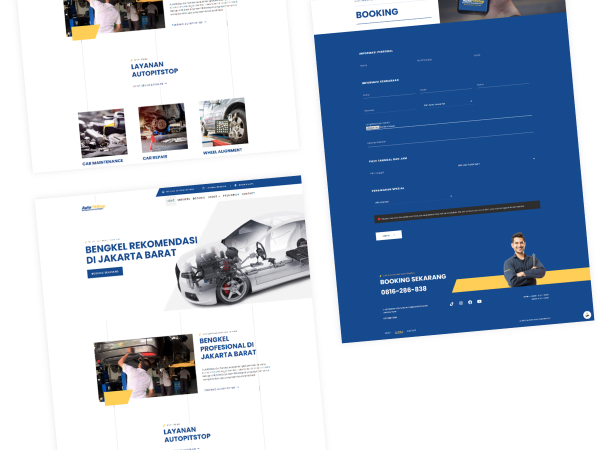
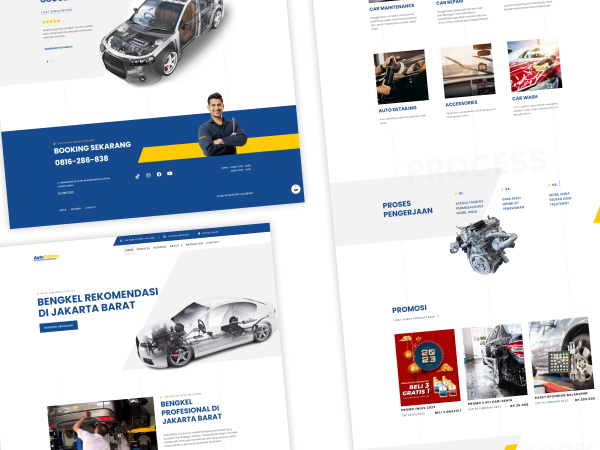
Update project, fix grid repeat,

diff --git a/_layouts/Post.html b/_layouts/Post.html
@@ -104,16 +104,16 @@
                 <h5 class="meta-title"><a href="/">← Home</a></h5>
                 <div class="jumbo">{{page.title}}</div>
                     {%- include Content.html -%}
-                    {% for post in site.posts %}
                     <div class="project-wrapper">
-                        <div class="project-feed">
-                            <a href="{{ site.baseurl }}{{post.url}}">
-                                <img src="{{ post.thumbnail }}" width="600" height="450">
-                                <h6>{{ post.title }}</h6>
-                            </a>
-                        </div>
+                        {% for post in site.posts %}
+                            <div class="project-feed">
+                                <a href="{{ site.baseurl }}{{post.url}}">
+                                    <img src="{{ post.thumbnail }}" width="600" height="450">
+                                    <h6>{{ post.title }}</h6>
+                                </a>
+                            </div>
+                        {%- endfor -%}
                     </div>
-                    {%- endfor -%}
             </div> 
 
             <ul>

diff --git a/_includes/Homepage.html b/_includes/Homepage.html
@@ -9,16 +9,16 @@
 </div>
 <div class="home-wrapper">
     <div class="home-image">
-        <a href="/autopitstop-car-service"><img src="../assets/img/portofolio/autopts1.jpg"></a>
+        <a href="/autopitstop-car-service"><img src="../assets/img/portofolio/autopitstop1.jpg"></a>
         <div class="home-image-meta">
             <div class="home-image-meta-text"> Autopitstop Car Service</div>
-            <div class="home-image-meta-text"> Digital Marketing • 2022</div>
+            <div class="home-image-meta-text"> Creative Content • 2022</div>
         </div>
     </div>
     <div class="home-image">
-        <a href="#"><img src="../assets/img/portofolio/Frame 29.jpg"></a>
+        <a href="/24hourproject-2017"><img src="../assets/img/portofolio/24hourproject1.jpg"></a>
         <div class="home-image-meta">
-            <div class="home-image-meta-text">2017 24hourproject</div>
+            <div class="home-image-meta-text">24 Hour Project 2017</div>
             <div class="home-image-meta-text">Photography • 2017</div>
         </div>
     </div>

diff --git a/assets/css/style.css b/assets/css/style.css
@@ -347,7 +347,7 @@ ul ul {
     column-count: 3 !important;
     display: grid;
     grid-template-columns: repeat(3, 1fr);
-    grid-gap: 10px;
+    grid-gap: 20px;
 }
 
 /* List Feed */

diff --git a/_posts/2020-03-01-autopitstop-car-service.md b/_posts/2020-03-01-autopitstop-car-service.md
@@ -1,13 +1,13 @@
 ---
 title: Autopitstop Car Service
-image: /assets/img/portofolio/autopts1.jpg
+image: /assets/img/portofolio/thumb-autopitstop.jpg
 thumbnail: /assets/img/portofolio/thumb-autopitstop.jpg
 description: Project Digital Marketing bengkel mobil di Jakarta Barat
 ---
 
 <div class="grid-32">
     <div class=".grid-1">
-        <p>Project Autopitstop adalah project digital marketing yang saya kerjakan untuk sebuah bengkel mobil di Jakarta Barat. Saya mengerjakan mulai dari pembuatan website, pembuatan video konten, dan optimasi digital, seperti SEO, Google Business, dan Media Sosial Autopitstop.</p>
+        <p>Project Autopitstop adalah project creative yang saya kerjakan untuk sebuah bengkel mobil di Jakarta Barat. Saya mengerjakan mulai dari pembuatan website, pembuatan video konten, dan optimasi digital, seperti SEO, Google Business, dan Media Sosial Autopitstop.</p>
         <h3>Website</h3>
         <p>Websitenya sendiri saya develop menggunakan wordpress dan plugin elementor sebagai page buildernya. Hostingnya saya serahkan ke hostingan lokal saja.</p>
         <p>Karena pembuatan website ini based on template yang sudah ada, jadi saya membuatnya tidak perlu lama. Total pengerjaan mulai dari pembelian domain, setup hosting, dan web develnya sekitar dua mingguan.</p>
@@ -17,14 +17,18 @@ description: Project Digital Marketing bengkel mobil di Jakarta Barat
     </div>
     <div class=".grid-1">
         <strong>Category:</strong><br>
-        Web Development, Digital Marketing<br><br>
+        Web Development, Creative Content, Video Production<br><br>
         <strong>Client:</strong><br>
         Bengkel Mobil Autopitstop Car Service<br><br>
         <strong>Year:</strong><br>
         2022 - 2023<br><br>
-        <strong>Link:</strong><br>
+        <strong>Links:</strong><br>
         <a href="https://autopitstop.co.id/">autopitstop.co.id</a><br>
     </div>
 </div>
 
-<img src="/assets/img/portofolio/autopts1.jpg" />
+<img src="/assets/img/portofolio/autopitstop1.jpg" />
+
+<img src="/assets/img/portofolio/autopitstop2.jpg" />
+
+<img src="/assets/img/portofolio/autopitstop3.jpg" />

diff --git a/_posts/2017-04-10-24hourproject-2017.md b/_posts/2017-04-10-24hourproject-2017.md
@@ -1,0 +1,28 @@
+---
+title: 24 Hour Project 2017
+image: /assets/img/portofolio/thumb-24jhourproject1.jpg
+thumbnail: /assets/img/portofolio/thumb-24jhourproject1.jpg
+description: Streetphotography Project di tahun 2017
+---
+
+<div class="grid-32">
+    <div class=".grid-1">
+            <p>Salah satu project fotografi yang saya kerjakan pada tahun 2017, tepatnya saat campaign 24 Hour Project.  Sayangnya saat itu saya ga ikutan motret selama 24 jam, cuman setengah hari karena anak baru setahun lahir.</p>
+            <h3>Tentang 24 Hour Project</h3>
+            <p>Campaign 24 Hour Project adalah project street photography yang dilakukan bagi pecinta street photography di seluruh dunia dengan tujuan sebagai awareness terhadap tema isu sosial yang sedang terjadi.</p>
+            <p>Setiap tahunnya 24 hour project memiliki tema yang berbeda-beda.</p>
+            <p>Uniknya, selain karena ini ga dapat reward apa-apa, tapi animo terhadap campaign ini cukup besar. Apalagi buat yang lagi pengen ketemu dengan street fotografer dari tempat yang berbeda di kotamu.</p>
+    </div>
+    <div class=".grid-1">
+        <strong>Category:</strong><br>
+        Streetphotography, 24hourproject<br><br>
+        <strong>Year:</strong><br>
+        2017<br><br>
+        <strong>Links:</strong><br>
+        <a href="https://www.24hourproject.org/">24hourproject.org</a><br><br>
+    </div>
+</div>
+
+<img src="/assets/img/portofolio/24hourproject2.png" />
+
+<img src="/assets/img/portofolio/24hourproject3.png" />
